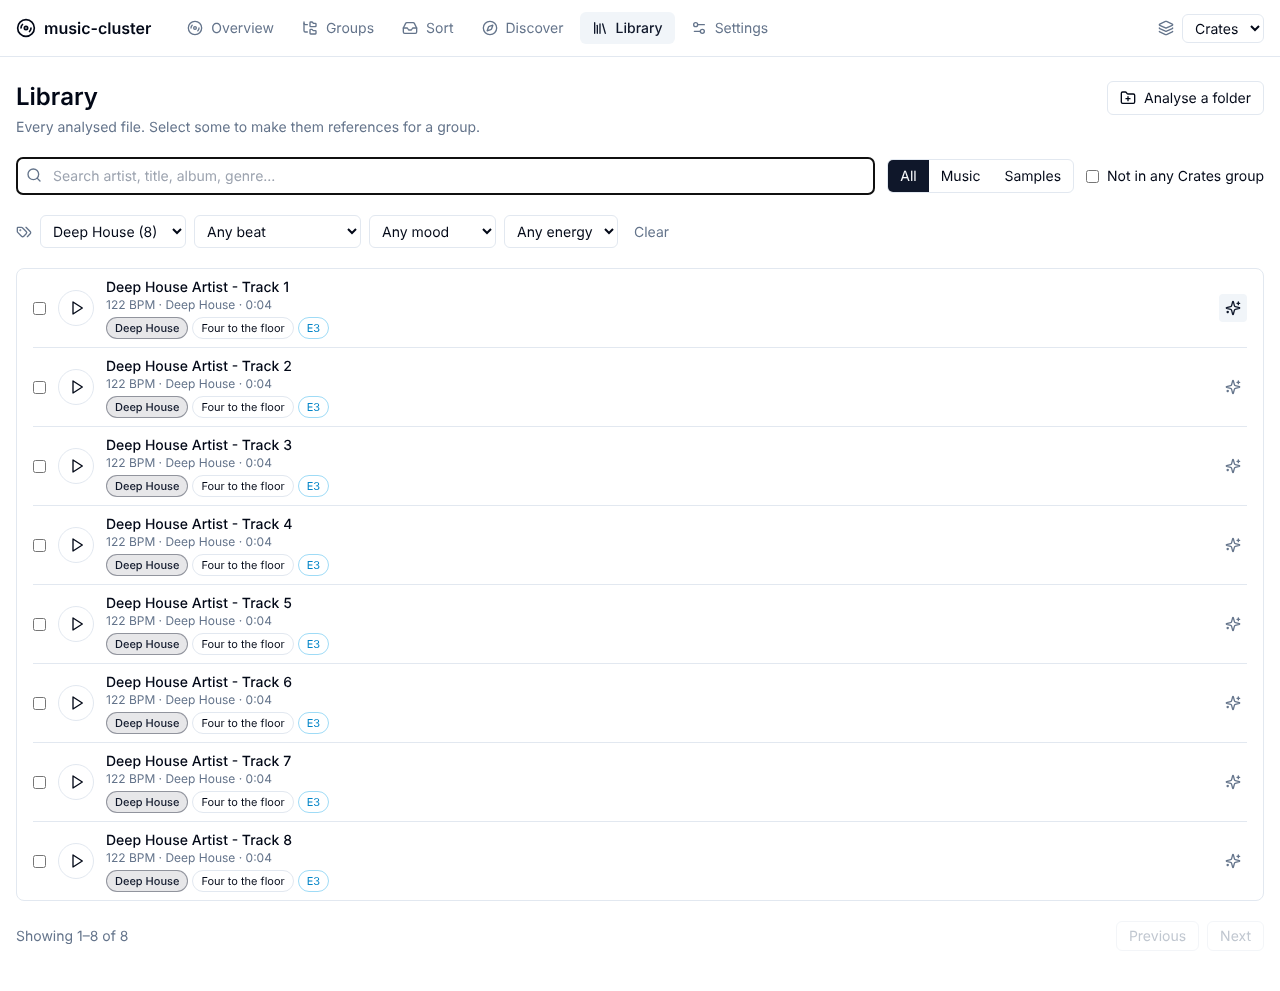
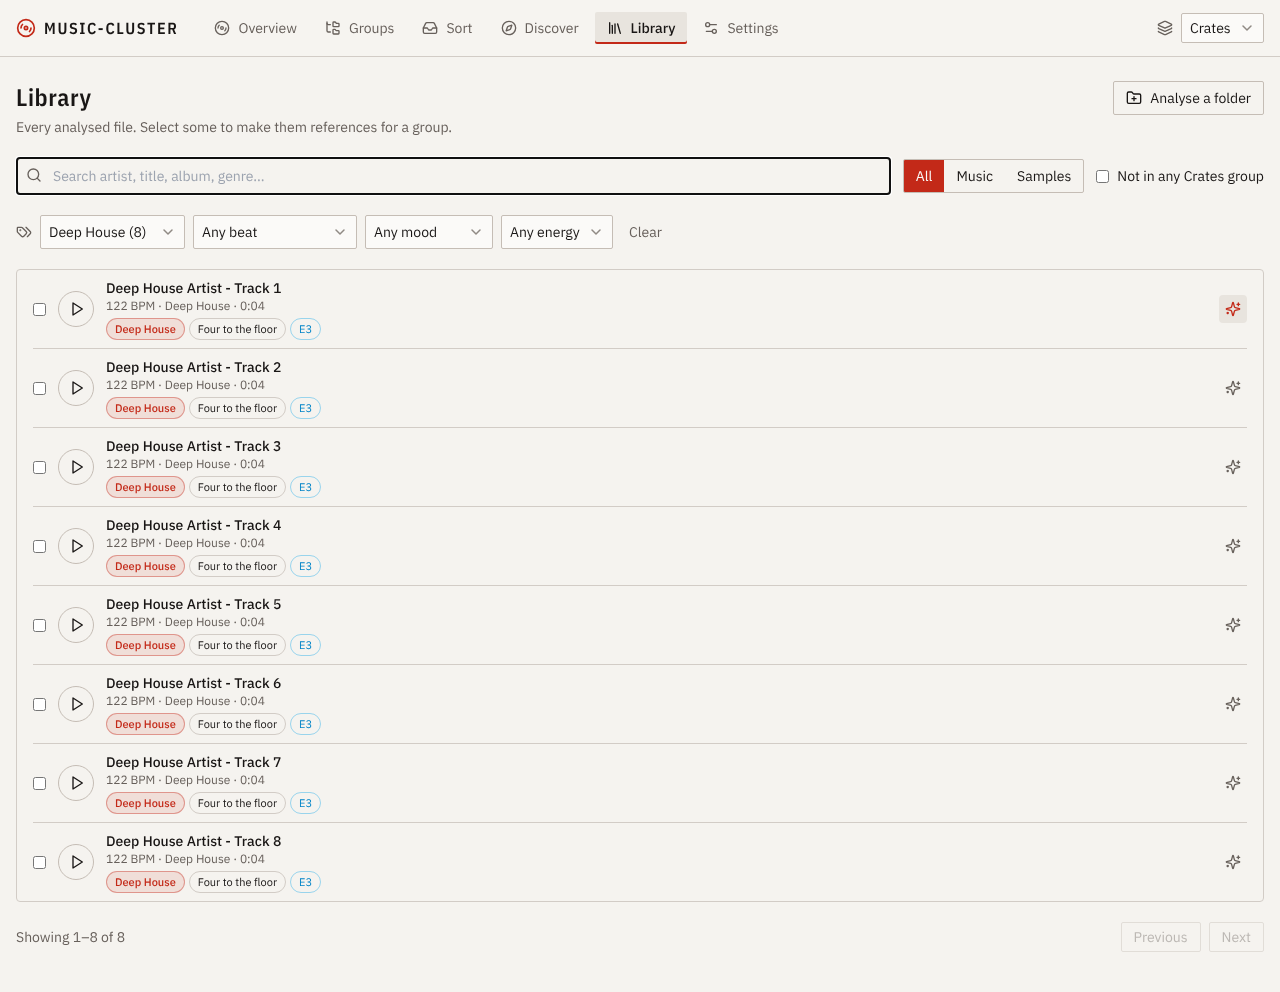
Show the app in the README and retake the tutorial screenshots in the new look (#20)
* Show the app in the README and retake the tutorial screenshots in the new look

- README gains a short 'What it looks like' section: the sort review, the
  groups page and a group in the dark theme.
- Every docs/images screenshot is retaken after the restyle (#14, #17) with
  the existing update_doc_screenshots.py, which now also copies a new
  dark-group-detail shot added to ui:snapshot.

Claude-Session: https://claude.ai/code/session_017p4eSF2MEFmXZTfaieG7Q1

* Address review: cleaner README images and retake steps

- The dark-theme README image shows the Drum & Bass group, whose seeded tracks
  are tagged as such (the synthetic Techno tracks tag as Jungle/Breaks).
- The sort-review shot dismisses its toasts so they don't cover the queue.
- README caption is its own paragraph; retake steps say where each command runs.

Claude-Session: https://claude.ai/code/session_017p4eSF2MEFmXZTfaieG7Q1

---------

diff --git a/ui/snapshots/screens.spec.ts b/ui/snapshots/screens.spec.ts
@@ -109,6 +109,13 @@ test.describe('browsing', () => {
     await page.goto('/library');
     await expect(page.getByRole('heading', { name: 'Library', level: 1 })).toBeVisible();
     await shot('dark-library', { note: 'Library and its tag chips in the dark theme' });
+    await page.goto('/groups');
+    await page
+      .getByRole('link', { name: /Drum & Bass/ })
+      .first()
+      .click();
+    await expect(page.getByText('Drum & Bass Artist').first()).toBeVisible();
+    await shot('dark-group-detail', { note: 'A group, its crate colour and tracks, dark theme' });
   });
 });
 
@@ -129,6 +136,10 @@ test.describe('sorting new music', () => {
     await expect(page).toHaveURL(/\/sort\/\d+$/, { timeout: 120_000 });
     await expect(page.getByText('6 to review')).toBeVisible();
     await expect(page.locator('canvas').first()).toBeVisible({ timeout: 30_000 });
+    // The "Ready to review" toast would cover the queue in the docs' main image.
+    for (const dismiss of await page.getByRole('button', { name: 'Dismiss' }).all()) {
+      await dismiss.click();
+    }
     await shot('sort-review', {
       note: 'Review queue: six tracks, each with its suggested group and a waveform'
     });

diff --git a/scripts/update_doc_screenshots.py b/scripts/update_doc_screenshots.py
@@ -40,6 +40,7 @@ SCREENS = [
     "library-similar",
     "library-analyze-dialog",
     "settings",
+    "dark-group-detail",
 ]
 
 

diff --git a/README.md b/README.md
@@ -23,6 +23,22 @@ file you have not confirmed.
 screen by screen. Every command and option is in the
 [command-line reference](docs/cli.md).
 
+## What it looks like
+
+![Reviewing a new track: the suggested groups with their scores, the waveform and the queue](docs/images/sort-review.png)
+
+_Sorting new buys: every track gets its likely groups and a score, and you
+decide where it goes._
+
+| Your groups                                                          | One group, in the dark theme                                                                  |
+| -------------------------------------------------------------------- | --------------------------------------------------------------------------------------------- |
+| ![The groups in a collection, each with its colour](docs/images/groups.png) | ![A group's colour, notes, destination and reference tracks](docs/images/dark-group-detail.png) |
+
+The app follows your system's light or dark setting (Settings › Appearance
+overrides it). To retake these screenshots, run `npm run ui:snapshot` in `ui/`,
+then `python scripts/update_doc_screenshots.py` from the repository root; the
+[tutorial](docs/tutorial.md) has one for every step.
+
 ## The two workflows
 
 **I already have folders.** Point it at the parent of your genre folders. Each
